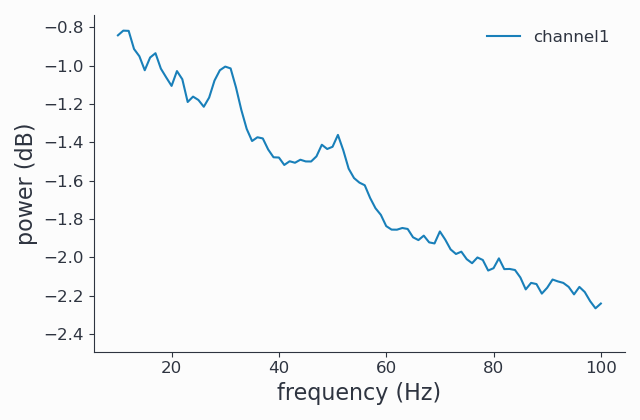
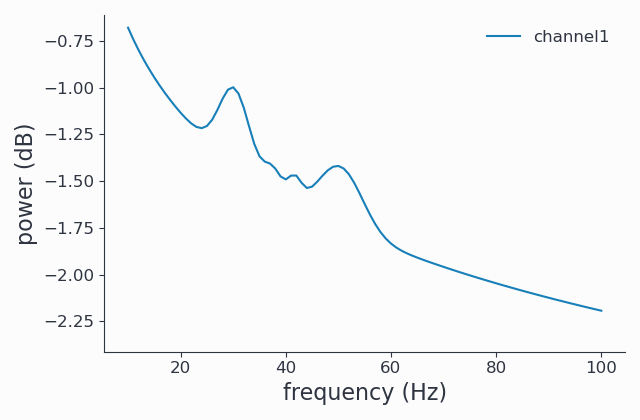
CHG: Update fooof tut images

diff --git a/doc/source/tutorials/fooof.rst b/doc/source/tutorials/fooof.rst
@@ -19,8 +19,8 @@ Generating Example Data
 
 Let us first prepare
 suitable data. FOOOF will typically be applied to trial-averaged data, as the method is
-quite sensitive to noise, so we generate an example data set consisting of 200 trials and
-a single channel here:
+quite sensitive to noise, so we generate an example data set consisting of 500 trials and
+a single channel here (see `the Synthetic data tutorial <user/synth_data>` for details on this):
 
 .. code-block:: python
     :linenos:
@@ -29,7 +29,7 @@ a single channel here:
     from syncopy import freqanalysis, get_defaults
     from syncopy.tests.synth_data import AR2_network, phase_diffusion
 
-    def get_signal(nTrials=200, nChannels = 1):
+    def get_signal(nTrials=500, nChannels = 1):
         nSamples = 1000
         samplerate = 1000
         ar1_part = AR2_network(AdjMat=np.zeros(1), nSamples=nSamples, alphas=[0.9, 0], nTrials=nTrials)
@@ -81,9 +81,9 @@ from the `freqanalysis` function.
 .. code-block:: python
     :linenos:
 
-    cfg.out = 'fooof'
-    spec_dt = freqanalysis(cfg, dt)
-    spec_dt.singlepanelplot()
+    cfg.output = 'fooof'
+    spec_fooof = freqanalysis(cfg, dt)
+    spec_fooof.singlepanelplot()
 
 .. image:: ../_static/fooof_out_first_try.png
 
@@ -99,21 +99,28 @@ in the other options. The following ouput types are available:
 * **fooo_aperiodic**: the aperiodic part of the spectrum
 * **fooof_peaks**: the detected peaks, with Gaussian fit to them
 
-Here we request only the aperiodic part:
+Here we request only the aperiodic part and plot it:
 
 
 .. code-block:: python
     :linenos:
 
-    cfg.out = 'fooof_aperiodic'
-    spec_dt = freqanalysis(cfg, dt)
-    spec_dt.singlepanelplot()
+    cfg.output = 'fooof_aperiodic'
+    spec_fooof_aperiodic = freqanalysis(cfg, dt)
+    spec_fooof_aperiodic.singlepanelplot()
+
+
+.. image:: ../_static/fooof_out_aperiodic.png
 
 You way want to use a combination of the different return types to inspect
 your results.
 
 Knowing what your data and the FOOOF results like is important, because typically
 you will have to fine-tune the FOOOF method to get the results you are interested in.
+
+With the data above, we were interested only in the 2 large peaks around 30 and 50 Hz,
+but 2 more minor peaks were detected by FOOOF, around 37 and 42 Hz. We will learn
+how to exclude these peaks in the next section.
 
 
 Fine-tuning FOOOF
@@ -126,12 +133,16 @@ Increasing the minimal peak width is one method to exclude them:
 
 .. code-block:: python
     :linenos:
-
+    cfg.output = 'fooof'
     cfg.fooof_opt = {'peak_width_limits': (6.0, 12.0), 'min_peak_height': 0.2}
-    spec_dt = freqanalysis(cfg, tf)
-    spec_dt.singlepanelplot()
+    spec_fooof_tuned = freqanalysis(cfg, dt)
+    spec_fooof_tuned.singlepanelplot()
 
 Once more, look at the FOOOFed spectrum:
 
 .. image:: ../_static/fooof_out_tuned.png
+
+Note that the tiny peak has been removed.
+
+This concludes the tutorial on using FOOOF from syncopy. Please do not forget to cite `Donoghue et al. 2020 <https://doi.org/10.1038/s41593-020-00744-x>`_ when using FOOOF.
 

diff --git a/doc/source/README.rst b/doc/source/README.rst
@@ -64,4 +64,5 @@ For general inquiries please contact syncopy (at) esi-frankfurt.de.
    user/fieldtrip.rst
    user/data.rst
    user/user_api.rst
+   tutorials/fooof.rst
    developer/developers.rst
